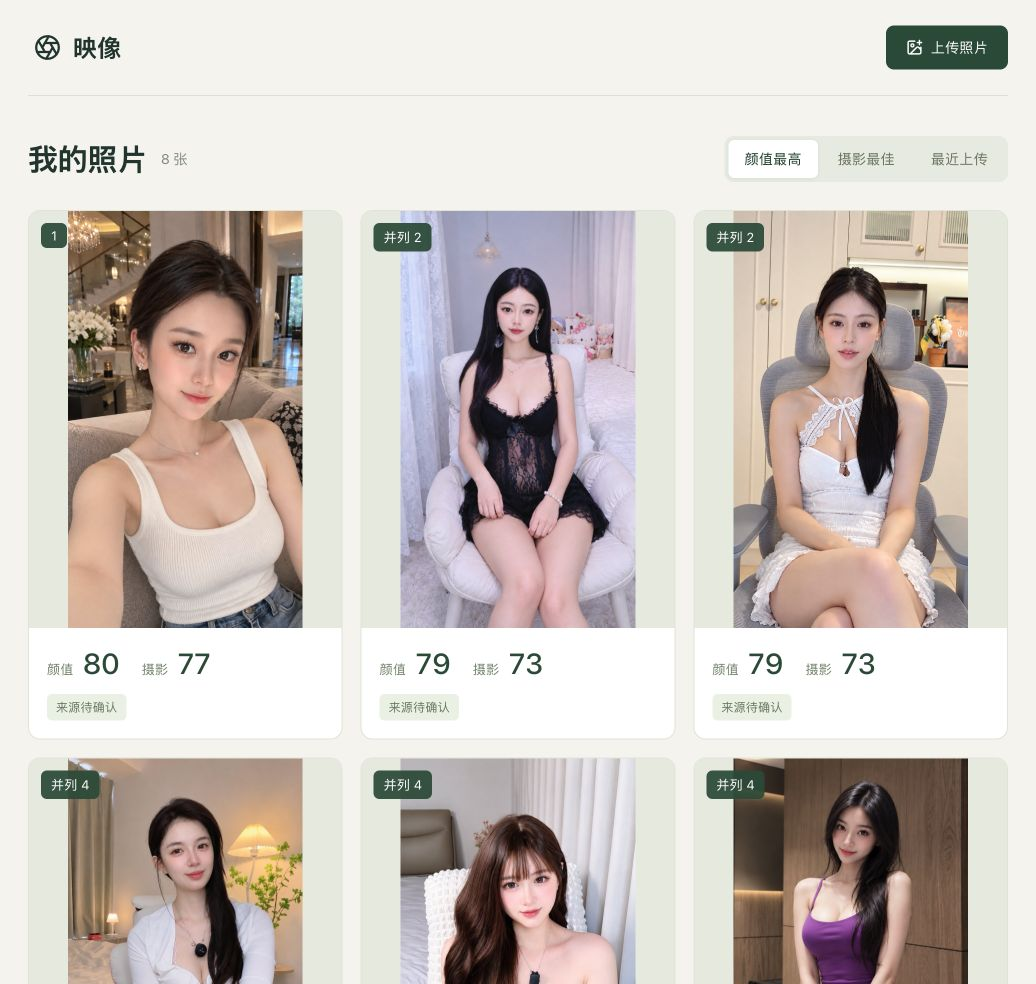
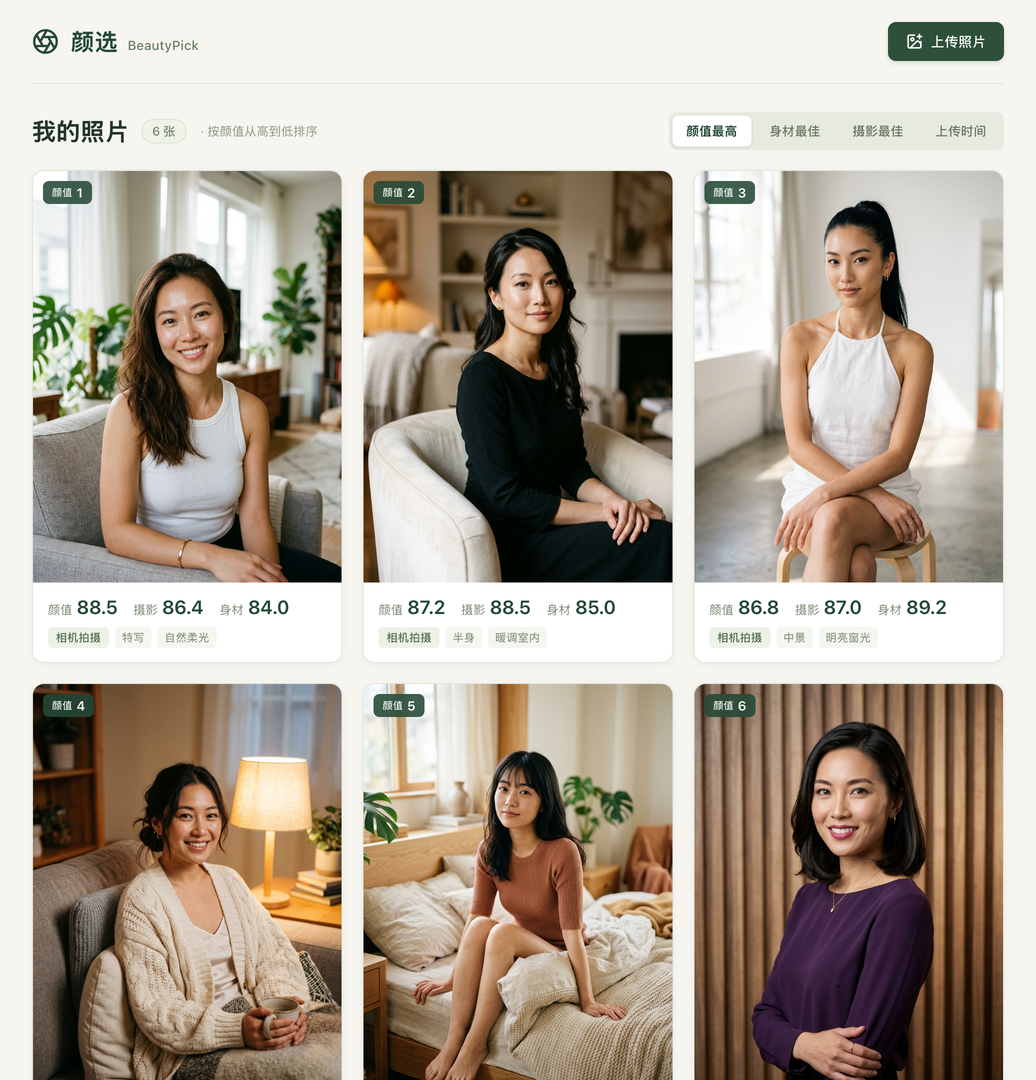
chore: remove historical screenshots and update cover preview with non-infringing synthetic portraits

diff --git a/docs/validation.md b/docs/validation.md
@@ -15,7 +15,7 @@
 - `python -m pytest -q`：22项通过。包括真实C2PA签名/可信链与篡改、真实MediaPipe双脸检测、授权范围、整数/null/状态校验、体态门槛、评分缓存、版本兼容、偏好重算、上传格式/资源边界、方向与脱敏、导出转义、生命周期、取消进程、迟到结果、相同目标幂等。
 - C2PA阳性/篡改使用临时生成的测试CA和纯色夹具，真实调用SDK签名及验证。测试信任锚不进入生产信任库；这验证密码学链路，不代表现实拍摄真值。
 - 前端 TypeScript + Vite构建通过；oxlint通过。依赖锁定，移除了重复的OpenCV发行包。
-- 真实浏览器检查图片库、报告、分组与28对对照；390px窄屏documentWidth=viewport=390。截图见 screenshots/。
+- 真实浏览器检查图片库、报告、分组与28对对照；390px窄屏documentWidth=viewport=390。全量布局与响应式校验通过。
 - 真实HTTP集成检查历史HTML/JSON/裁脸导出、各模块28对结果、宫格导出及原图SHA-256保持不变。
 - pytest有一条上游Starlette/httpx弃用警告，不影响当前通过结果。
 
